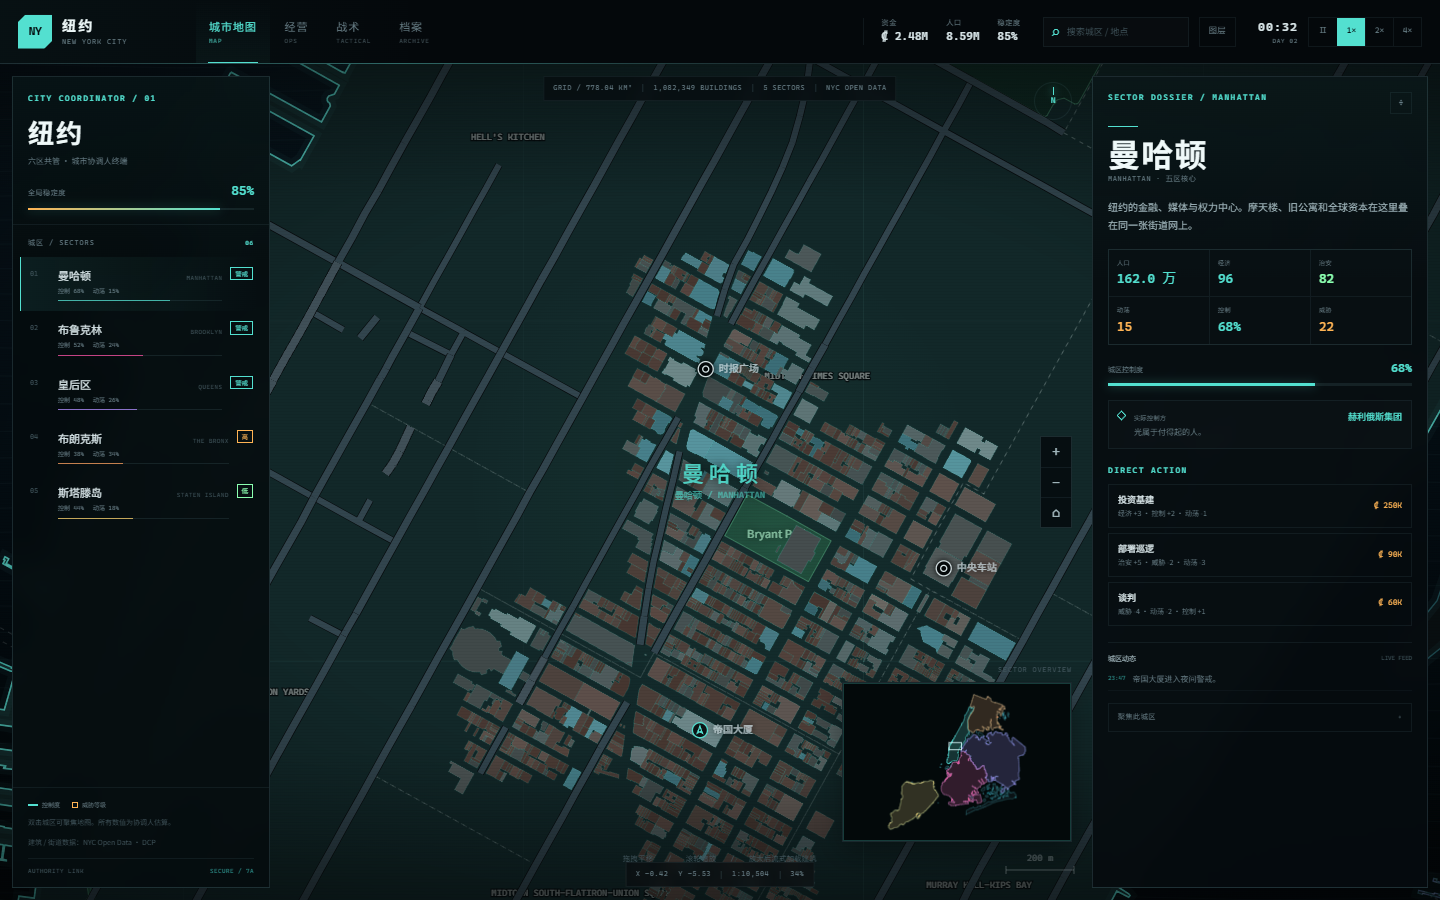
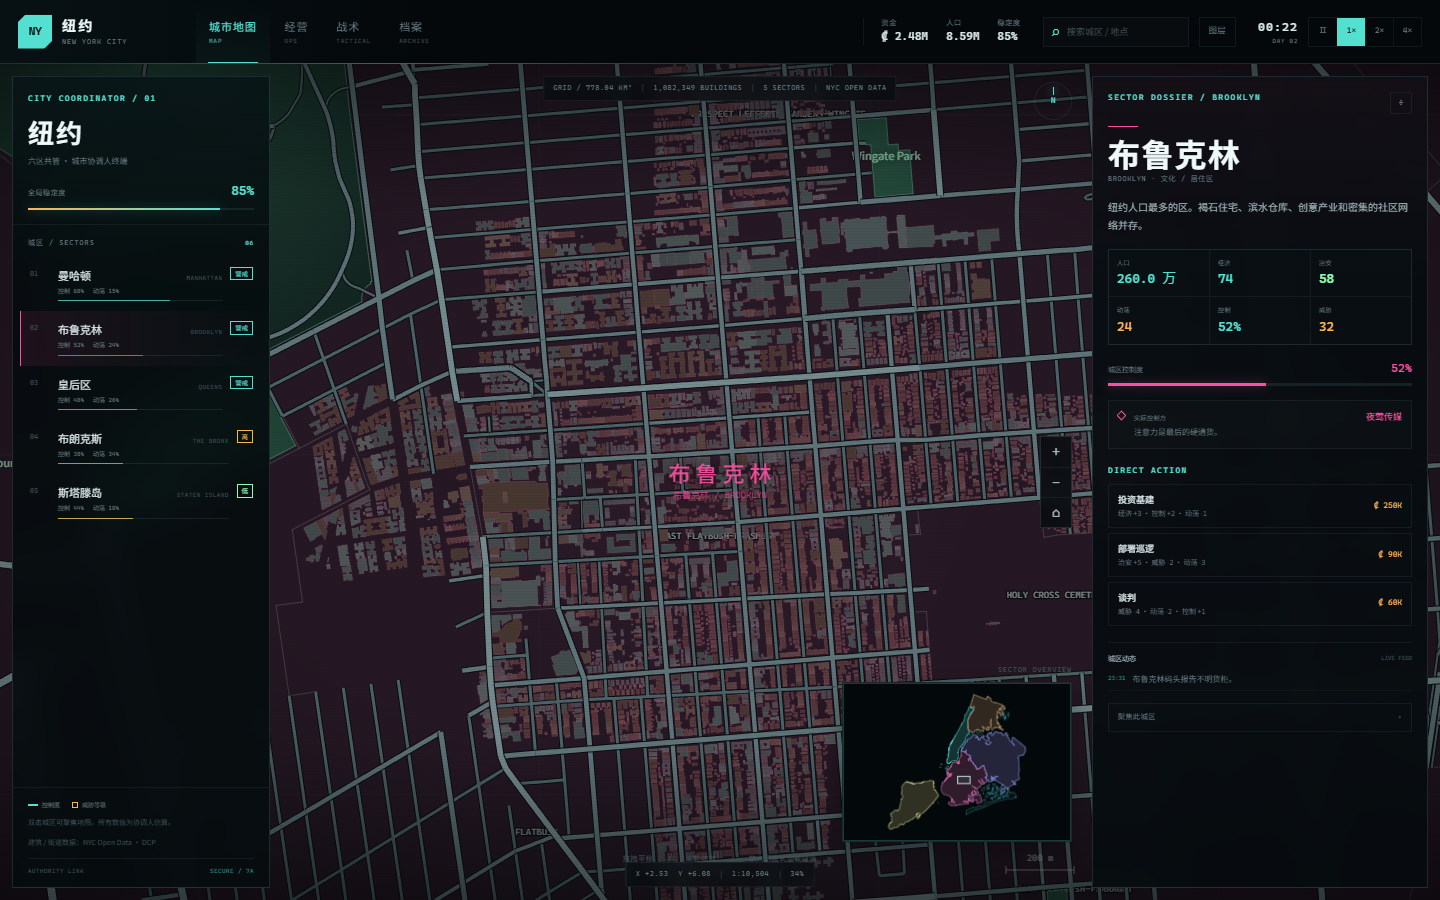
Upload complete road streaming source

diff --git a/src/map/MapCanvas.jsx b/src/map/MapCanvas.jsx
@@ -8,7 +8,14 @@ import {
 } from 'react'
 import { DISTRICT_BY_ID, WORLD } from '../data/city.js'
 import { buildBuildingIndex, expandRoads, hitTestBuildings } from './generator.js'
-import { TILE_SIZE, fetchTile, tileKey } from './stream.js'
+import {
+  ROAD_TILE_SIZE,
+  TILE_SIZE,
+  fetchRoadTile,
+  fetchTile,
+  roadTileKey,
+  tileKey,
+} from './stream.js'
 import {
   MAX_SCALE,
   MIN_SCALE,
@@ -55,7 +62,14 @@ const MapCanvas = forwardRef(function MapCanvas(
   const hoverRef = useRef(null)
   const hoveredIdRef = useRef(null)
   const lastHudRef = useRef(0)
-  const streamRef = useRef({ tiles: new Map(), loading: new Set(), buildings: [], roads: [] })
+  const streamRef = useRef({
+    tiles: new Map(),
+    loading: new Set(),
+    roadTiles: new Map(),
+    roadLoading: new Set(),
+    buildings: [],
+    roads: [],
+  })
   const streamAbortRef = useRef(null)
   const renderDataRef = useRef(data)
   const [hud, setHud] = useState({ x: 0, y: 0, zoom: '1:24,000' })
@@ -147,6 +161,7 @@ const MapCanvas = forwardRef(function MapCanvas(
     [focusDistrict, focusPoint, resetView, zoomBy],
   )
 
+
   // Resize and initialize the camera.
   useEffect(() => {
     const wrap = wrapRef.current
@@ -193,7 +208,14 @@ const MapCanvas = forwardRef(function MapCanvas(
 
   useEffect(() => {
     streamAbortRef.current?.abort()
-    streamRef.current = { tiles: new Map(), loading: new Set(), buildings: [], roads: [] }
+    streamRef.current = {
+      tiles: new Map(),
+      loading: new Set(),
+      roadTiles: new Map(),
+      roadLoading: new Set(),
+      buildings: [],
+      roads: [],
+    }
     renderDataRef.current = {
       ...data,
       buildings: [],
@@ -213,12 +235,15 @@ const MapCanvas = forwardRef(function MapCanvas(
       const roads = []
       for (const tile of streamRef.current.tiles.values()) {
         buildings.push(...tile.buildings)
-        roads.push(...tile.roads)
       }
+      for (const tileRoads of streamRef.current.roadTiles.values()) {
+        roads.push(...tileRoads)
+      }
+      const extraRoads = expandRoads(roads)
       renderDataRef.current = {
         ...data,
         buildings,
-        roads: [...data.roads, ...expandRoads(roads)],
+        roads: [...data.roads, ...extraRoads],
         buildingIndex: buildBuildingIndex(buildings),
       }
     }
@@ -226,37 +251,72 @@ const MapCanvas = forwardRef(function MapCanvas(
     const loadVisible = async () => {
       const camera = cameraRef.current
       const { width, height } = sizeRef.current
-      if (!camera || width < 1 || camera.scale < 0.3) return
+      if (!camera || width < 1) return
       const bounds = cameraBounds(camera, width, height)
-      const minTx = Math.floor((bounds.minX - 200 - WORLD.minX) / TILE_SIZE)
-      const maxTx = Math.floor((bounds.maxX + 200 - WORLD.minX) / TILE_SIZE)
-      const minTy = Math.floor((bounds.minY - 200 - WORLD.minY) / TILE_SIZE)
-      const maxTy = Math.floor((bounds.maxY + 200 - WORLD.minY) / TILE_SIZE)
-      const candidates = []
-      for (let tx = minTx; tx <= maxTx; tx += 1) {
-        for (let ty = minTy; ty <= maxTy; ty += 1) {
-          const key = tileKey(tx, ty)
-          if (streamRef.current.tiles.has(key) || streamRef.current.loading.has(key)) continue
-          const cx = WORLD.minX + (tx + 0.5) * TILE_SIZE
-          const cy = WORLD.minY + (ty + 0.5) * TILE_SIZE
-          candidates.push({ tx, ty, key, distance: Math.hypot(cx - camera.x, cy - camera.y) })
+      if (camera.scale >= 0.3) {
+        const minTx = Math.floor((bounds.minX - 200 - WORLD.minX) / TILE_SIZE)
+        const maxTx = Math.floor((bounds.maxX + 200 - WORLD.minX) / TILE_SIZE)
+        const minTy = Math.floor((bounds.minY - 200 - WORLD.minY) / TILE_SIZE)
+        const maxTy = Math.floor((bounds.maxY + 200 - WORLD.minY) / TILE_SIZE)
+        const candidates = []
+        for (let tx = minTx; tx <= maxTx; tx += 1) {
+          for (let ty = minTy; ty <= maxTy; ty += 1) {
+            const key = tileKey(tx, ty)
+            if (streamRef.current.tiles.has(key) || streamRef.current.loading.has(key)) continue
+            const cx = WORLD.minX + (tx + 0.5) * TILE_SIZE
+            const cy = WORLD.minY + (ty + 0.5) * TILE_SIZE
+            candidates.push({ tx, ty, key, distance: Math.hypot(cx - camera.x, cy - camera.y) })
+          }
+        }
+        candidates.sort((a, b) => a.distance - b.distance)
+        for (const candidate of candidates.slice(0, 8)) {
+          streamRef.current.loading.add(candidate.key)
+          fetchTile(candidate.tx, candidate.ty, controller.signal)
+            .then((tile) => {
+              if (stopped) return
+              streamRef.current.tiles.set(candidate.key, tile)
+              if (streamRef.current.tiles.size > 140) {
+                const first = streamRef.current.tiles.keys().next().value
+                streamRef.current.tiles.delete(first)
+              }
+              rebuild()
+            })
+            .catch(() => {})
+            .finally(() => streamRef.current.loading.delete(candidate.key))
         }
       }
-      candidates.sort((a, b) => a.distance - b.distance)
-      for (const candidate of candidates.slice(0, 8)) {
-        streamRef.current.loading.add(candidate.key)
-        fetchTile(candidate.tx, candidate.ty, controller.signal)
-          .then((tile) => {
-            if (stopped) return
-            streamRef.current.tiles.set(candidate.key, tile)
-            if (streamRef.current.tiles.size > 140) {
-              const first = streamRef.current.tiles.keys().next().value
-              streamRef.current.tiles.delete(first)
-            }
-            rebuild()
-          })
-          .catch(() => {})
-          .finally(() => streamRef.current.loading.delete(candidate.key))
+
+      if (camera.scale >= 0.12) {
+        const minTx = Math.floor((bounds.minX - 300 - WORLD.minX) / ROAD_TILE_SIZE)
+        const maxTx = Math.floor((bounds.maxX + 300 - WORLD.minX) / ROAD_TILE_SIZE)
+        const minTy = Math.floor((bounds.minY - 300 - WORLD.minY) / ROAD_TILE_SIZE)
+        const maxTy = Math.floor((bounds.maxY + 300 - WORLD.minY) / ROAD_TILE_SIZE)
+        const candidates = []
+        for (let tx = minTx; tx <= maxTx; tx += 1) {
+          for (let ty = minTy; ty <= maxTy; ty += 1) {
+            const key = roadTileKey(tx, ty)
+            if (streamRef.current.roadTiles.has(key) || streamRef.current.roadLoading.has(key)) continue
+            const cx = WORLD.minX + (tx + 0.5) * ROAD_TILE_SIZE
+            const cy = WORLD.minY + (ty + 0.5) * ROAD_TILE_SIZE
+            candidates.push({ tx, ty, key, distance: Math.hypot(cx - camera.x, cy - camera.y) })
+          }
+        }
+        candidates.sort((a, b) => a.distance - b.distance)
+        for (const candidate of candidates.slice(0, 12)) {
+          streamRef.current.roadLoading.add(candidate.key)
+          fetchRoadTile(candidate.tx, candidate.ty, controller.signal)
+            .then((roads) => {
+              if (stopped) return
+              streamRef.current.roadTiles.set(candidate.key, roads)
+              if (streamRef.current.roadTiles.size > 140) {
+                const first = streamRef.current.roadTiles.keys().next().value
+                streamRef.current.roadTiles.delete(first)
+              }
+              rebuild()
+            })
+            .catch(() => {})
+            .finally(() => streamRef.current.roadLoading.delete(candidate.key))
+        }
       }
     }
 

diff --git a/src/map/renderer.js b/src/map/renderer.js
@@ -299,9 +299,8 @@ function drawCommunities(ctx, camera, width, height, data, scale) {
   for (const community of data.communities) {
     ctx.beginPath()
     tracePolygon(ctx, camera, width, height, community.poly)
-    ctx.strokeStyle = 'rgba(214, 231, 228, 0.24)'
-    ctx.lineWidth = 0.7
-    ctx.setLineDash([4, 5])
+    ctx.strokeStyle = 'rgba(214, 231, 228, 0.16)'
+    ctx.lineWidth = 0.55
     ctx.stroke()
   }
   ctx.setLineDash([])
@@ -575,27 +574,19 @@ function drawRoads(ctx, camera, width, height, data, scale) {
       ctx.moveTo(a.x, a.y)
       ctx.lineTo(b.x, b.y)
     }
-    ctx.strokeStyle = 'rgba(5, 9, 11, 0.92)'
-    ctx.lineWidth = Math.max(0.9, roadWidth * scale + 1.4)
+    ctx.strokeStyle = 'rgba(7, 12, 14, 0.95)'
+    ctx.lineWidth = Math.max(1.8, roadWidth * scale + 2)
     ctx.stroke()
     ctx.strokeStyle =
       roadWidth >= 22
-        ? 'rgba(67, 83, 91, 0.96)'
+        ? 'rgba(143, 163, 165, 0.96)'
         : roadWidth >= 17
-          ? 'rgba(53, 72, 81, 0.95)'
+          ? 'rgba(122, 144, 148, 0.95)'
           : roadWidth >= 10
-            ? 'rgba(38, 55, 63, 0.92)'
-            : 'rgba(27, 42, 50, 0.9)'
-    ctx.lineWidth = Math.max(0.55, roadWidth * scale)
+            ? 'rgba(100, 122, 127, 0.94)'
+            : 'rgba(83, 105, 110, 0.92)'
+    ctx.lineWidth = Math.max(1.25, roadWidth * scale)
     ctx.stroke()
-
-    if (roadWidth >= 17 && scale > 0.4) {
-      ctx.setLineDash([Math.max(2, 6 * scale), Math.max(2, 7 * scale)])
-      ctx.strokeStyle = 'rgba(206, 201, 176, 0.22)'
-      ctx.lineWidth = Math.max(0.45, 0.8 * scale)
-      ctx.stroke()
-      ctx.setLineDash([])
-    }
     ctx.restore()
   }
 
@@ -1004,7 +995,7 @@ function drawLowZoomRoads(ctx, camera, width, height, data) {
   ctx.restore()
 }
 
-function drawBuildings(ctx, camera, width, height, data, scale, hoveredId) {
+function drawBuildings(ctx, camera, width, height, data, scale, hoveredId, pass = 'both') {
   const bounds = cameraBounds(camera, width, height)
   const buildings = getVisibleBuildings(data, bounds)
   const detailed = scale > 0.34
@@ -1015,7 +1006,7 @@ function drawBuildings(ctx, camera, width, height, data, scale, hoveredId) {
 
   // Ground shadows. Keeping these in a separate pass makes the city read as a
   // collection of volumes instead of a flat colour field.
-  if (detailed) {
+  if (detailed && pass !== 'body') {
     ctx.save()
     for (const b of buildings) {
       if (b.height < 10) continue
@@ -1058,6 +1049,8 @@ function drawBuildings(ctx, camera, width, height, data, scale, hoveredId) {
     }
     ctx.restore()
   }
+
+  if (pass === 'shadows') return
 
   ctx.save()
   for (const b of ordered) {
@@ -1685,7 +1678,6 @@ export function drawMap(ctx, data, camera, width, height, options = {}) {
   drawRivers(ctx, camera, width, height, data)
   drawCommunities(ctx, camera, width, height, data, scale)
   drawParks(ctx, camera, width, height, data)
-  drawRoads(ctx, camera, width, height, data, scale)
 
   const hasBlocks = data.blocks && data.blocks.length > 0
   if (scale < 0.27 && hasBlocks) {
@@ -1694,7 +1686,9 @@ export function drawMap(ctx, data, camera, width, height, options = {}) {
     if (options.districts !== false) drawDistrictOutlines(ctx, camera, width, height, data, options.selectedDistrict)
   } else {
     if (hasBlocks) drawBlockGround(ctx, camera, width, height, data)
-    drawBuildings(ctx, camera, width, height, data, scale, options.hoveredBuilding)
+    drawBuildings(ctx, camera, width, height, data, scale, options.hoveredBuilding, 'shadows')
+    drawRoads(ctx, camera, width, height, data, scale)
+    drawBuildings(ctx, camera, width, height, data, scale, options.hoveredBuilding, 'body')
     if (!hasBlocks && scale < 0.27 && options.districts !== false) {
       drawDistrictOutlines(ctx, camera, width, height, data, options.selectedDistrict)
     }

diff --git a/src/map/stream.js b/src/map/stream.js
@@ -3,6 +3,8 @@ import { normalizeStreamBuilding } from './generator.js'
 
 const BASE = 'https://a841-dotweb01.nyc.gov/arcgis/rest/services/GAZETTEER/NYCDOTBaseMap_Street/MapServer'
 export const TILE_SIZE = 500
+export const ROAD_TILE_SIZE = 1000
+const ROAD_TILE_PREFIX = 'road'
 
 export function tileKey(tx, ty) {
   return `${tx}:${ty}`
@@ -48,7 +50,17 @@ function normalizeRoad(feature) {
   const props = feature.properties || {}
   const coords = feature.geometry?.coordinates
   if (!coords || coords.length < 2) return null
-  const points = coords.map(([lon, lat]) => lonLatToWorld(lon, lat))
+  const projected = coords.map(([lon, lat]) => lonLatToWorld(lon, lat))
+  const points = [projected[0]]
+  for (let i = 1; i < projected.length; i += 1) {
+    const [x, y] = projected[i]
+    const [lx, ly] = points[points.length - 1]
+    if (Math.hypot(x - lx, y - ly) >= 8) points.push([x, y])
+  }
+  const last = projected[projected.length - 1]
+  const [fx, fy] = points[points.length - 1]
+  if (Math.hypot(last[0] - fx, last[1] - fy) > 0.5) points.push(last)
+  if (points.length < 2) return null
   return {
     name: (props.Street || '').trim(),
     width: Math.max(4, Math.min(38, (Number(props.StreetWidth) || 0) * 0.3048 || 10)),
@@ -56,28 +68,42 @@ function normalizeRoad(feature) {
   }
 }
 
+export function roadTileKey(tx, ty) {
+  return `${ROAD_TILE_PREFIX}:${tx}:${ty}`
+}
+
+export function roadTileBounds(tx, ty) {
+  return {
+    minX: WORLD.minX + tx * ROAD_TILE_SIZE,
+    minY: WORLD.minY + ty * ROAD_TILE_SIZE,
+    maxX: WORLD.minX + (tx + 1) * ROAD_TILE_SIZE,
+    maxY: WORLD.minY + (ty + 1) * ROAD_TILE_SIZE,
+  }
+}
+
+export async function fetchRoadTile(tx, ty, signal) {
+  const response = await fetch(queryUrl(30, roadTileBounds(tx, ty), 'OBJECTID,Street,StreetWidth'), { signal })
+  if (!response.ok) throw new Error(`NYC road tile ${tx}:${ty} HTTP ${response.status}`)
+  const json = await response.json()
+  const roads = []
+  for (const feature of json.features || []) {
+    const road = normalizeRoad(feature)
+    if (road) roads.push(road)
+  }
+  return roads
+}
+
 export async function fetchTile(tx, ty, signal) {
   const bounds = tileBounds(tx, ty)
-  const [buildingsResponse, roadsResponse] = await Promise.all([
-    fetch(queryUrl(17, bounds, 'OBJECTID,BIN,BBL,HEIGHT_ROOF,NUM_FLOORS,CONSTRUCTION_YEAR'), { signal }),
-    fetch(queryUrl(30, bounds, 'OBJECTID,Street,StreetWidth'), { signal }),
-  ])
-  if (!buildingsResponse.ok || !roadsResponse.ok) {
-    throw new Error(`NYC tile ${tx}:${ty} HTTP ${buildingsResponse.status}/${roadsResponse.status}`)
+  const buildingsResponse = await fetch(queryUrl(17, bounds, 'OBJECTID,BIN,BBL,HEIGHT_ROOF,NUM_FLOORS,CONSTRUCTION_YEAR'), { signal })
+  if (!buildingsResponse.ok) {
+    throw new Error(`NYC building tile ${tx}:${ty} HTTP ${buildingsResponse.status}`)
   }
-  const [buildingsJson, roadsJson] = await Promise.all([
-    buildingsResponse.json(),
-    roadsResponse.json(),
-  ])
+  const buildingsJson = await buildingsResponse.json()
   const buildings = []
   for (const feature of buildingsJson.features || []) {
     const building = normalizeStreamBuilding(feature, `${tx}:${ty}:${feature.properties?.OBJECTID}`)
     if (building) buildings.push(building)
   }
-  const roads = []
-  for (const feature of roadsJson.features || []) {
-    const road = normalizeRoad(feature)
-    if (road) roads.push(road)
-  }
-  return { buildings, roads }
+  return { buildings, roads: [] }
 }
